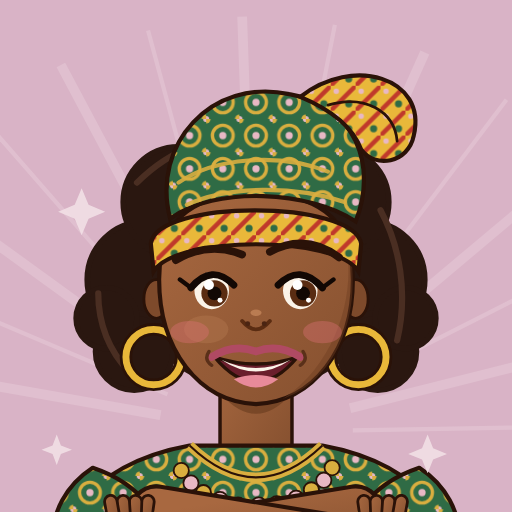
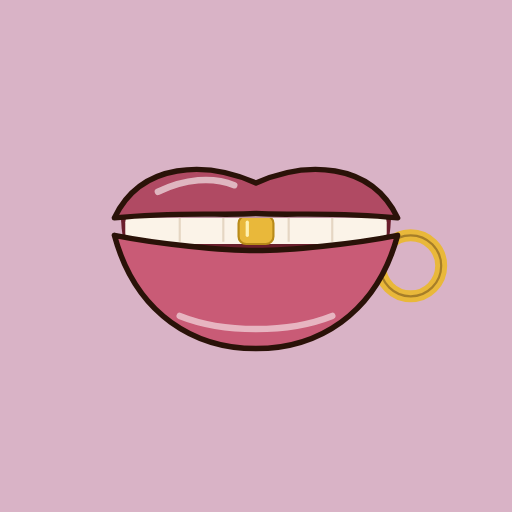
Add files via upload

diff --git a/index.html b/index.html
@@ -188,57 +188,37 @@ nav.bar-nav{position:fixed;left:0;right:0;bottom:0;max-width:560px;margin:auto;b
 .w-go{display:flex;align-items:center;justify-content:center;width:100%;padding:14px 16px;border-radius:12px;background:var(--ink);color:#F0DDE4;font-weight:600;font-size:15px}
 .w-skip{display:block;width:100%;text-align:center;margin-top:10px;font-size:13.5px;font-weight:500;color:var(--ink);padding:6px}
 @media (prefers-reduced-motion:reduce){*{animation:none!important;transition:none!important}}
+
+.top{position:relative;padding-right:118px}
+.mouth-top{position:absolute;right:6px;top:4px;width:104px;height:auto;transform:rotate(-13deg);transform-origin:70% 50%;filter:drop-shadow(0 3px 4px rgba(42,18,8,.25));pointer-events:none;animation:mpeek 6s ease-in-out infinite}
+.m-low{animation:mtalk 4s ease-in-out infinite}
+.mouth-top .m-low{animation-duration:3.2s}
+@keyframes mtalk{0%,62%,100%{transform:translateY(0)}8%{transform:translateY(24px)}16%{transform:translateY(4px)}26%{transform:translateY(28px)}36%{transform:translateY(6px)}46%{transform:translateY(22px)}54%{transform:translateY(2px)}}
+@keyframes mpeek{0%,100%{transform:rotate(-13deg)}50%{transform:rotate(-8deg) translateY(2px)}}
+@media (prefers-reduced-motion:reduce){.m-low,.mouth-top{animation:none}}
 </style>
 </head>
 <body>
 
 <div id="welcome" role="dialog" aria-label="Bienvenue">
   <div class="w-brand">Mams</div>
-  <div style="text-align:center"><button class="w-bubble" id="w-bubble" type="button" aria-live="polite"></button><div style="height:14px"></div><svg class="w-mom" viewBox="0 -30 360 430" role="img" aria-label="Une maman africaine imposante et rayonnante, les bras croisés, avec un grand gele en tissu wax">
-<defs>
-<linearGradient id="sk" x1="0" y1="0" x2="1" y2="1"><stop offset="0" stop-color="#A86840"/><stop offset="1" stop-color="#85502F"/></linearGradient>
-<pattern id="wx" width="24" height="24" patternUnits="userSpaceOnUse"><rect width="24" height="24" fill="#2F6B45"/><circle cx="12" cy="12" r="7.5" fill="none" stroke="#D9AE3F" stroke-width="2.4"/><circle cx="12" cy="12" r="2.6" fill="#E8B8C4"/><circle cx="0" cy="0" r="3.2" fill="#D9AE3F"/><circle cx="24" cy="24" r="3.2" fill="#D9AE3F"/><circle cx="24" cy="0" r="2.2" fill="#E8B8C4"/><circle cx="0" cy="24" r="2.2" fill="#E8B8C4"/></pattern>
-<pattern id="wy" width="18" height="18" patternUnits="userSpaceOnUse"><rect width="18" height="18" fill="#E9B83A"/><path d="M0 18L18 0" stroke="#C0392B" stroke-width="3.2"/><circle cx="13" cy="13" r="2.6" fill="#2F6B45"/><circle cx="4" cy="4" r="2" fill="#E8B8C4"/></pattern>
-<clipPath id="fc"><path d="M110 140C110 92 140 78 180 78C220 78 250 92 250 140C250 190 222 228 180 230C138 228 110 190 110 140Z"/></clipPath>
-<clipPath id="el"><ellipse cx="148" cy="148" rx="12.5" ry="13.5"/></clipPath><clipPath id="er"><ellipse cx="212" cy="148" rx="12.5" ry="13.5"/></clipPath>
-</defs>
-<line x1="111" y1="238" x2="-115" y2="198" stroke="#F0DDE4" stroke-width="7" opacity=".30"/><line x1="116" y1="223" x2="-96" y2="133" stroke="#F0DDE4" stroke-width="3" opacity=".30"/><line x1="123" y1="209" x2="-63" y2="74" stroke="#F0DDE4" stroke-width="7" opacity=".30"/><line x1="134" y1="197" x2="-17" y2="24" stroke="#F0DDE4" stroke-width="3" opacity=".30"/><line x1="147" y1="188" x2="39" y2="-15" stroke="#F0DDE4" stroke-width="7" opacity=".30"/><line x1="162" y1="182" x2="102" y2="-40" stroke="#F0DDE4" stroke-width="3" opacity=".30"/><line x1="178" y1="180" x2="170" y2="-50" stroke="#F0DDE4" stroke-width="7" opacity=".30"/><line x1="193" y1="181" x2="237" y2="-44" stroke="#F0DDE4" stroke-width="3" opacity=".30"/><line x1="208" y1="186" x2="302" y2="-24" stroke="#F0DDE4" stroke-width="7" opacity=".30"/><line x1="222" y1="194" x2="361" y2="10" stroke="#F0DDE4" stroke-width="3" opacity=".30"/><line x1="234" y1="205" x2="410" y2="57" stroke="#F0DDE4" stroke-width="7" opacity=".30"/><line x1="242" y1="218" x2="447" y2="114" stroke="#F0DDE4" stroke-width="3" opacity=".30"/><line x1="248" y1="233" x2="471" y2="177" stroke="#F0DDE4" stroke-width="7" opacity=".30"/><line x1="250" y1="249" x2="480" y2="245" stroke="#F0DDE4" stroke-width="3" opacity=".30"/><circle cx="180" cy="128" r="92" fill="#2A1710" stroke="#2A1710" stroke-width="4"/><circle cx="100" cy="140" r="42" fill="#2A1710" stroke="#2A1710" stroke-width="4"/><circle cx="260" cy="140" r="42" fill="#2A1710" stroke="#2A1710" stroke-width="4"/><circle cx="124" cy="84" r="40" fill="#2A1710" stroke="#2A1710" stroke-width="4"/><circle cx="236" cy="84" r="40" fill="#2A1710" stroke="#2A1710" stroke-width="4"/><circle cx="180" cy="64" r="42" fill="#2A1710" stroke="#2A1710" stroke-width="4"/><circle cx="92" cy="192" r="28" fill="#2A1710" stroke="#2A1710" stroke-width="4"/><circle cx="268" cy="192" r="28" fill="#2A1710" stroke="#2A1710" stroke-width="4"/><circle cx="72" cy="168" r="22" fill="#2A1710" stroke="#2A1710" stroke-width="4"/><circle cx="288" cy="168" r="22" fill="#2A1710" stroke="#2A1710" stroke-width="4"/>
-<path d="M94 70C120 44 152 34 184 36M270 90C284 116 290 150 282 184M66 150C66 172 74 192 88 206" fill="none" stroke="#4A2E22" stroke-width="4.5" stroke-linecap="round"/>
-<g transform="translate(0,-30)"><path d="M154 214L154 300L206 300L206 214Z" fill="url(#sk)" stroke="#2A1208" stroke-width="2.5"/>
-<path d="M154 232Q180 262 206 232L206 252Q180 282 154 252Z" fill="#5E3318" opacity=".5"/>
-<path d="M16 460C16 342 66 302 132 290L228 290C294 302 344 342 344 460Z" fill="url(#wx)" stroke="#2A1208" stroke-width="3"/>
-<path d="M132 290Q180 336 228 290" fill="none" stroke="#D9AE3F" stroke-width="7"/><path d="M132 290Q180 336 228 290" fill="none" stroke="#2A1208" stroke-width="1.5"/>
-<path d="M62 306C22 332 26 384 56 410L124 384C114 342 98 318 62 306Z" fill="url(#wx)" stroke="#2A1208" stroke-width="3" stroke-linejoin="round"/>
-<path d="M298 306C338 332 334 384 304 410L236 384C246 342 262 318 298 306Z" fill="url(#wx)" stroke="#2A1208" stroke-width="3" stroke-linejoin="round"/>
-<path d="M50 396L122 372M310 396L238 372" stroke="#D9AE3F" stroke-width="7" stroke-linecap="round"/>
-<circle cx="235" cy="306" r="5.5" fill="#D9AE3F" stroke="#2A1208" stroke-width="1.3"/><circle cx="229" cy="315" r="5.5" fill="#E8B8C4" stroke="#2A1208" stroke-width="1.3"/><circle cx="220" cy="322" r="5.5" fill="#D9AE3F" stroke="#2A1208" stroke-width="1.3"/><circle cx="209" cy="328" r="5.5" fill="#E8B8C4" stroke="#2A1208" stroke-width="1.3"/><circle cx="195" cy="332" r="5.5" fill="#D9AE3F" stroke="#2A1208" stroke-width="1.3"/><circle cx="182" cy="333" r="5.5" fill="#E8B8C4" stroke="#2A1208" stroke-width="1.3"/><circle cx="167" cy="333" r="5.5" fill="#D9AE3F" stroke="#2A1208" stroke-width="1.3"/><circle cx="154" cy="329" r="5.5" fill="#E8B8C4" stroke="#2A1208" stroke-width="1.3"/><circle cx="142" cy="324" r="5.5" fill="#D9AE3F" stroke="#2A1208" stroke-width="1.3"/><circle cx="133" cy="317" r="5.5" fill="#E8B8C4" stroke="#2A1208" stroke-width="1.3"/><circle cx="126" cy="308" r="5.5" fill="#D9AE3F" stroke="#2A1208" stroke-width="1.3"/>
-<path d="M44 372L252 338" fill="none" stroke="#2A1208" stroke-width="40" stroke-linecap="round"/><path d="M44 372L252 338" fill="none" stroke="url(#sk)" stroke-width="34" stroke-linecap="round"/>
-<path d="M316 372L108 338" fill="none" stroke="#2A1208" stroke-width="40" stroke-linecap="round"/><path d="M316 372L108 338" fill="none" stroke="url(#sk)" stroke-width="34" stroke-linecap="round"/>
-<path d="M78 362L86 340M282 362L274 340M96 358L104 338M264 358L256 338" stroke="#D9AE3F" stroke-width="5" stroke-linecap="round"/>
-<rect x="253.5" y="326" width="9" height="22" rx="4.5" transform="rotate(-8 258.0 330)" fill="url(#sk)" stroke="#2A1208" stroke-width="2"/><rect x="262.5" y="326" width="9" height="22" rx="4.5" transform="rotate(-2 267.0 330)" fill="url(#sk)" stroke="#2A1208" stroke-width="2"/><rect x="271.5" y="326" width="9" height="22" rx="4.5" transform="rotate(4 276.0 330)" fill="url(#sk)" stroke="#2A1208" stroke-width="2"/><rect x="280.5" y="326" width="9" height="22" rx="4.5" transform="rotate(10 285.0 330)" fill="url(#sk)" stroke="#2A1208" stroke-width="2"/><rect x="97.5" y="326" width="9" height="22" rx="4.5" transform="rotate(8 102.0 330)" fill="url(#sk)" stroke="#2A1208" stroke-width="2"/><rect x="88.5" y="326" width="9" height="22" rx="4.5" transform="rotate(2 93.0 330)" fill="url(#sk)" stroke="#2A1208" stroke-width="2"/><rect x="79.5" y="326" width="9" height="22" rx="4.5" transform="rotate(-4 84.0 330)" fill="url(#sk)" stroke="#2A1208" stroke-width="2"/><rect x="70.5" y="326" width="9" height="22" rx="4.5" transform="rotate(-10 75.0 330)" fill="url(#sk)" stroke="#2A1208" stroke-width="2"/>
-</g><ellipse cx="108" cy="154" rx="9" ry="14" fill="#7E4A2B" stroke="#2A1208" stroke-width="2"/><ellipse cx="252" cy="154" rx="9" ry="14" fill="#7E4A2B" stroke="#2A1208" stroke-width="2"/>
-<circle cx="106" cy="196" r="20" fill="none" stroke="#2A1208" stroke-width="9"/><circle cx="106" cy="196" r="20" fill="none" stroke="#E9B83A" stroke-width="5"/><circle cx="254" cy="196" r="20" fill="none" stroke="#2A1208" stroke-width="9"/><circle cx="254" cy="196" r="20" fill="none" stroke="#E9B83A" stroke-width="5"/>
-<path d="M110 140C110 92 140 78 180 78C220 78 250 92 250 140C250 190 222 228 180 230C138 228 110 190 110 140Z" fill="url(#sk)" stroke="#2A1208" stroke-width="3"/>
-<g clip-path="url(#fc)"><path d="M226 80C262 110 252 200 190 232L250 232L250 80Z" fill="#6E3F22" opacity=".45"/><ellipse cx="150" cy="104" rx="26" ry="12" fill="#C98A5E" opacity=".4"/><ellipse cx="144" cy="176" rx="16" ry="10" fill="#C98A5E" opacity=".25"/></g>
-<path d="M104 114C108 82 250 82 256 114L254 134C238 108 122 108 106 134Z" fill="url(#wy)" stroke="#2A1208" stroke-width="3"/>
-<path d="M118 96C104 42 148 -6 204 6C252 14 268 58 252 98C220 76 150 72 118 96Z" fill="url(#wx)" stroke="#2A1208" stroke-width="3"/>
-<path d="M124 70C150 52 196 48 232 62M130 86C160 72 208 72 244 84" fill="none" stroke="#D9AE3F" stroke-width="3" stroke-linecap="round" opacity=".9"/>
-<path d="M212 8C250 -22 304 -6 294 36C290 56 266 60 256 46C250 30 236 18 212 8Z" fill="url(#wy)" stroke="#2A1208" stroke-width="3"/><path d="M232 14C258 6 280 18 282 40" fill="none" stroke="#2A1208" stroke-width="2" stroke-linecap="round"/>
-<path d="M122 126Q146 112 170 122M190 120Q216 106 240 124" fill="none" stroke="#2A1208" stroke-width="5.5" stroke-linecap="round"/>
-<ellipse cx="148" cy="148" rx="12.5" ry="13.5" fill="#FBF3E8"/><ellipse cx="212" cy="148" rx="12.5" ry="13.5" fill="#FBF3E8"/>
-<g clip-path="url(#el)"><circle cx="150" cy="150" r="9.5" fill="#5A2C12"/><circle cx="150" cy="150" r="5" fill="#120804"/></g><g clip-path="url(#er)"><circle cx="214" cy="150" r="9.5" fill="#5A2C12"/><circle cx="214" cy="150" r="5" fill="#120804"/></g>
-<circle cx="146" cy="144" r="3.6" fill="#fff"/><circle cx="154" cy="155" r="1.8" fill="#fff"/><circle cx="210" cy="144" r="3.6" fill="#fff"/><circle cx="218" cy="155" r="1.8" fill="#fff"/>
-<path d="M133 146Q148 128 164 144M196 144Q212 128 228 146" fill="none" stroke="#120804" stroke-width="5" stroke-linecap="round"/><path d="M133 146L125 140M228 146L236 140" stroke="#120804" stroke-width="3.2" stroke-linecap="round"/>
-<path d="M170 170Q180 182 190 170" fill="none" stroke="#5A2C12" stroke-width="2.8" stroke-linecap="round"/><circle cx="174" cy="172" r="1.8" fill="#4A2412"/><circle cx="186" cy="172" r="1.8" fill="#4A2412"/><ellipse cx="180" cy="164" rx="4" ry="2.4" fill="#C98A5E" opacity=".7"/>
-<ellipse cx="132" cy="178" rx="14" ry="8" fill="#E0707A" opacity=".38"/><ellipse cx="228" cy="178" rx="14" ry="8" fill="#E0707A" opacity=".38"/>
-<path d="M150 196Q180 232 210 196Q180 206 150 196Z" fill="#6A1E2C" stroke="#2A1208" stroke-width="2.5" stroke-linejoin="round"/><path d="M155 198Q180 210 205 198Q180 215 155 198Z" fill="#FBF3E8"/><path d="M164 212Q180 206 196 212Q180 224 164 212Z" fill="#E88A9A"/>
-<path d="M148 196Q164 186 180 192Q196 186 212 196" fill="none" stroke="#B04A63" stroke-width="5.5" stroke-linecap="round"/>
-<path d="M146 192Q142 198 148 202M214 192Q218 198 212 202" fill="none" stroke="#5A3019" stroke-width="2.4" stroke-linecap="round"/>
-<path d="M54 74l5 12 12 5-12 5-5 12-5-12-12-5 12-5zM304 252l4 10 10 4-10 4-4 10-4-10-10-4 10-4zM36 252l3 8 8 3-8 3-3 8-3-8-8-3 8-3z" fill="#F0DDE4" opacity=".95"/>
-</svg></div>
+  <div style="text-align:center"><button class="w-bubble" id="w-bubble" type="button" aria-live="polite"></button><div style="height:14px"></div><svg class="w-mom" viewBox="0 0 360 300" role="img" aria-label="La bouche de Mams" xmlns="http://www.w3.org/2000/svg"><defs><clipPath id="cv1"><path d="M56,152 L304,152 C300,240 240,262 180,262 C120,262 60,240 56,152Z"/></clipPath></defs>
+<g class="m-hoop"><circle cx="322" cy="196" r="28" fill="none" stroke="#E9B83A" stroke-width="11"/><circle cx="322" cy="196" r="28" fill="none" stroke="#2A1208" stroke-width="2" opacity=".35"/></g>
+<path d="M56,152 L304,152 C300,240 240,262 180,262 C120,262 60,240 56,152Z" fill="#6A1E2C"/>
+<g clip-path="url(#cv1)"><rect x="60" y="146" width="240" height="30" rx="10" fill="#FBF3E8"/><path d="M110,148 V174 M150,148 V174 M210,148 V174 M250,148 V174" stroke="#E5D6C3" stroke-width="2"/><rect x="164" y="150" width="32" height="26" rx="7" fill="#E9B83A" stroke="#B88A1A" stroke-width="2"/><path d="M172,156 V168" stroke="#FFF1B0" stroke-width="3" stroke-linecap="round"/><ellipse cx="180" cy="238" rx="62" ry="34" fill="#E88A9A"/></g>
+<g class="m-low"><path d="M50,152 C90,160 150,166 180,166 C210,166 270,160 310,152 C290,226 235,256 180,256 C125,256 70,226 50,152Z" fill="#C95B76" stroke="#2A1208" stroke-width="5" stroke-linejoin="round"/><path d="M110,226 C150,242 210,242 250,226" stroke="#fff" stroke-opacity=".55" stroke-width="6" fill="none" stroke-linecap="round"/></g>
+<path d="M50,152 C75,100 135,100 180,120 C225,100 285,100 310,152 C250,146 210,150 180,148 C150,150 110,146 50,152Z" fill="#B04A63" stroke="#2A1208" stroke-width="5" stroke-linejoin="round"/>
+<path d="M90,128 C115,116 140,114 160,122" stroke="#fff" stroke-opacity=".6" stroke-width="6" fill="none" stroke-linecap="round"/></svg></div>
   <div><div class="w-dots" id="w-dots"></div><button class="w-go" id="w-go" type="button">C'est parti</button><button class="w-skip" id="w-skip" type="button">Passer</button></div>
 </div>
 <header class="top">
+  <svg class="mouth-top" viewBox="0 0 360 300" role="img" aria-label="La bouche de Mams" xmlns="http://www.w3.org/2000/svg"><defs><clipPath id="cv2"><path d="M56,152 L304,152 C300,240 240,262 180,262 C120,262 60,240 56,152Z"/></clipPath></defs>
+<g class="m-hoop"><circle cx="322" cy="196" r="28" fill="none" stroke="#E9B83A" stroke-width="11"/><circle cx="322" cy="196" r="28" fill="none" stroke="#2A1208" stroke-width="2" opacity=".35"/></g>
+<path d="M56,152 L304,152 C300,240 240,262 180,262 C120,262 60,240 56,152Z" fill="#6A1E2C"/>
+<g clip-path="url(#cv2)"><rect x="60" y="146" width="240" height="30" rx="10" fill="#FBF3E8"/><path d="M110,148 V174 M150,148 V174 M210,148 V174 M250,148 V174" stroke="#E5D6C3" stroke-width="2"/><rect x="164" y="150" width="32" height="26" rx="7" fill="#E9B83A" stroke="#B88A1A" stroke-width="2"/><path d="M172,156 V168" stroke="#FFF1B0" stroke-width="3" stroke-linecap="round"/><ellipse cx="180" cy="238" rx="62" ry="34" fill="#E88A9A"/></g>
+<g class="m-low"><path d="M50,152 C90,160 150,166 180,166 C210,166 270,160 310,152 C290,226 235,256 180,256 C125,256 70,226 50,152Z" fill="#C95B76" stroke="#2A1208" stroke-width="5" stroke-linejoin="round"/><path d="M110,226 C150,242 210,242 250,226" stroke="#fff" stroke-opacity=".55" stroke-width="6" fill="none" stroke-linecap="round"/></g>
+<path d="M50,152 C75,100 135,100 180,120 C225,100 285,100 310,152 C250,146 210,150 180,148 C150,150 110,146 50,152Z" fill="#B04A63" stroke="#2A1208" stroke-width="5" stroke-linejoin="round"/>
+<path d="M90,128 C115,116 140,114 160,122" stroke="#fff" stroke-opacity=".6" stroke-width="6" fill="none" stroke-linecap="round"/></svg>
   <div class="brand">
     <svg viewBox="0 0 24 24" fill="none" stroke="currentColor" stroke-width="1.7" stroke-linecap="round" stroke-linejoin="round" aria-hidden="true"><path d="M3.5 12.5c0 4.4 3.6 7.5 8.5 7.5s8.5-3.1 8.5-7.5"/><path d="M6.5 13c1.6 1.2 3.4 1.8 5.5 1.8s3.9-.6 5.5-1.8"/><circle cx="12" cy="7.6" r="3"/></svg>
     Mams

diff --git a/sw.js b/sw.js
@@ -1,6 +1,6 @@
 // Service worker : hors-ligne + mises à jour automatiques
 // (essaie d'abord le réseau pour avoir la dernière version, sinon utilise la copie enregistrée)
-const CACHE = 'nid-deveil-v31';
+const CACHE = 'nid-deveil-v32';
 const FILES = ['./', './index.html', './manifest.webmanifest', './privacy.html',
   './data/activites-1.js', './data/activites-2.js', './data/activites-3.js', './data/activites-4.js', './data/activites-5.js', './data/films.js', './data/videos.js', './data/schemas.js', './data/photos.js',
   './icons/icon-192.png', './icons/icon-512.png', './icons/apple-touch-icon.png', './icons/fond.png'];
